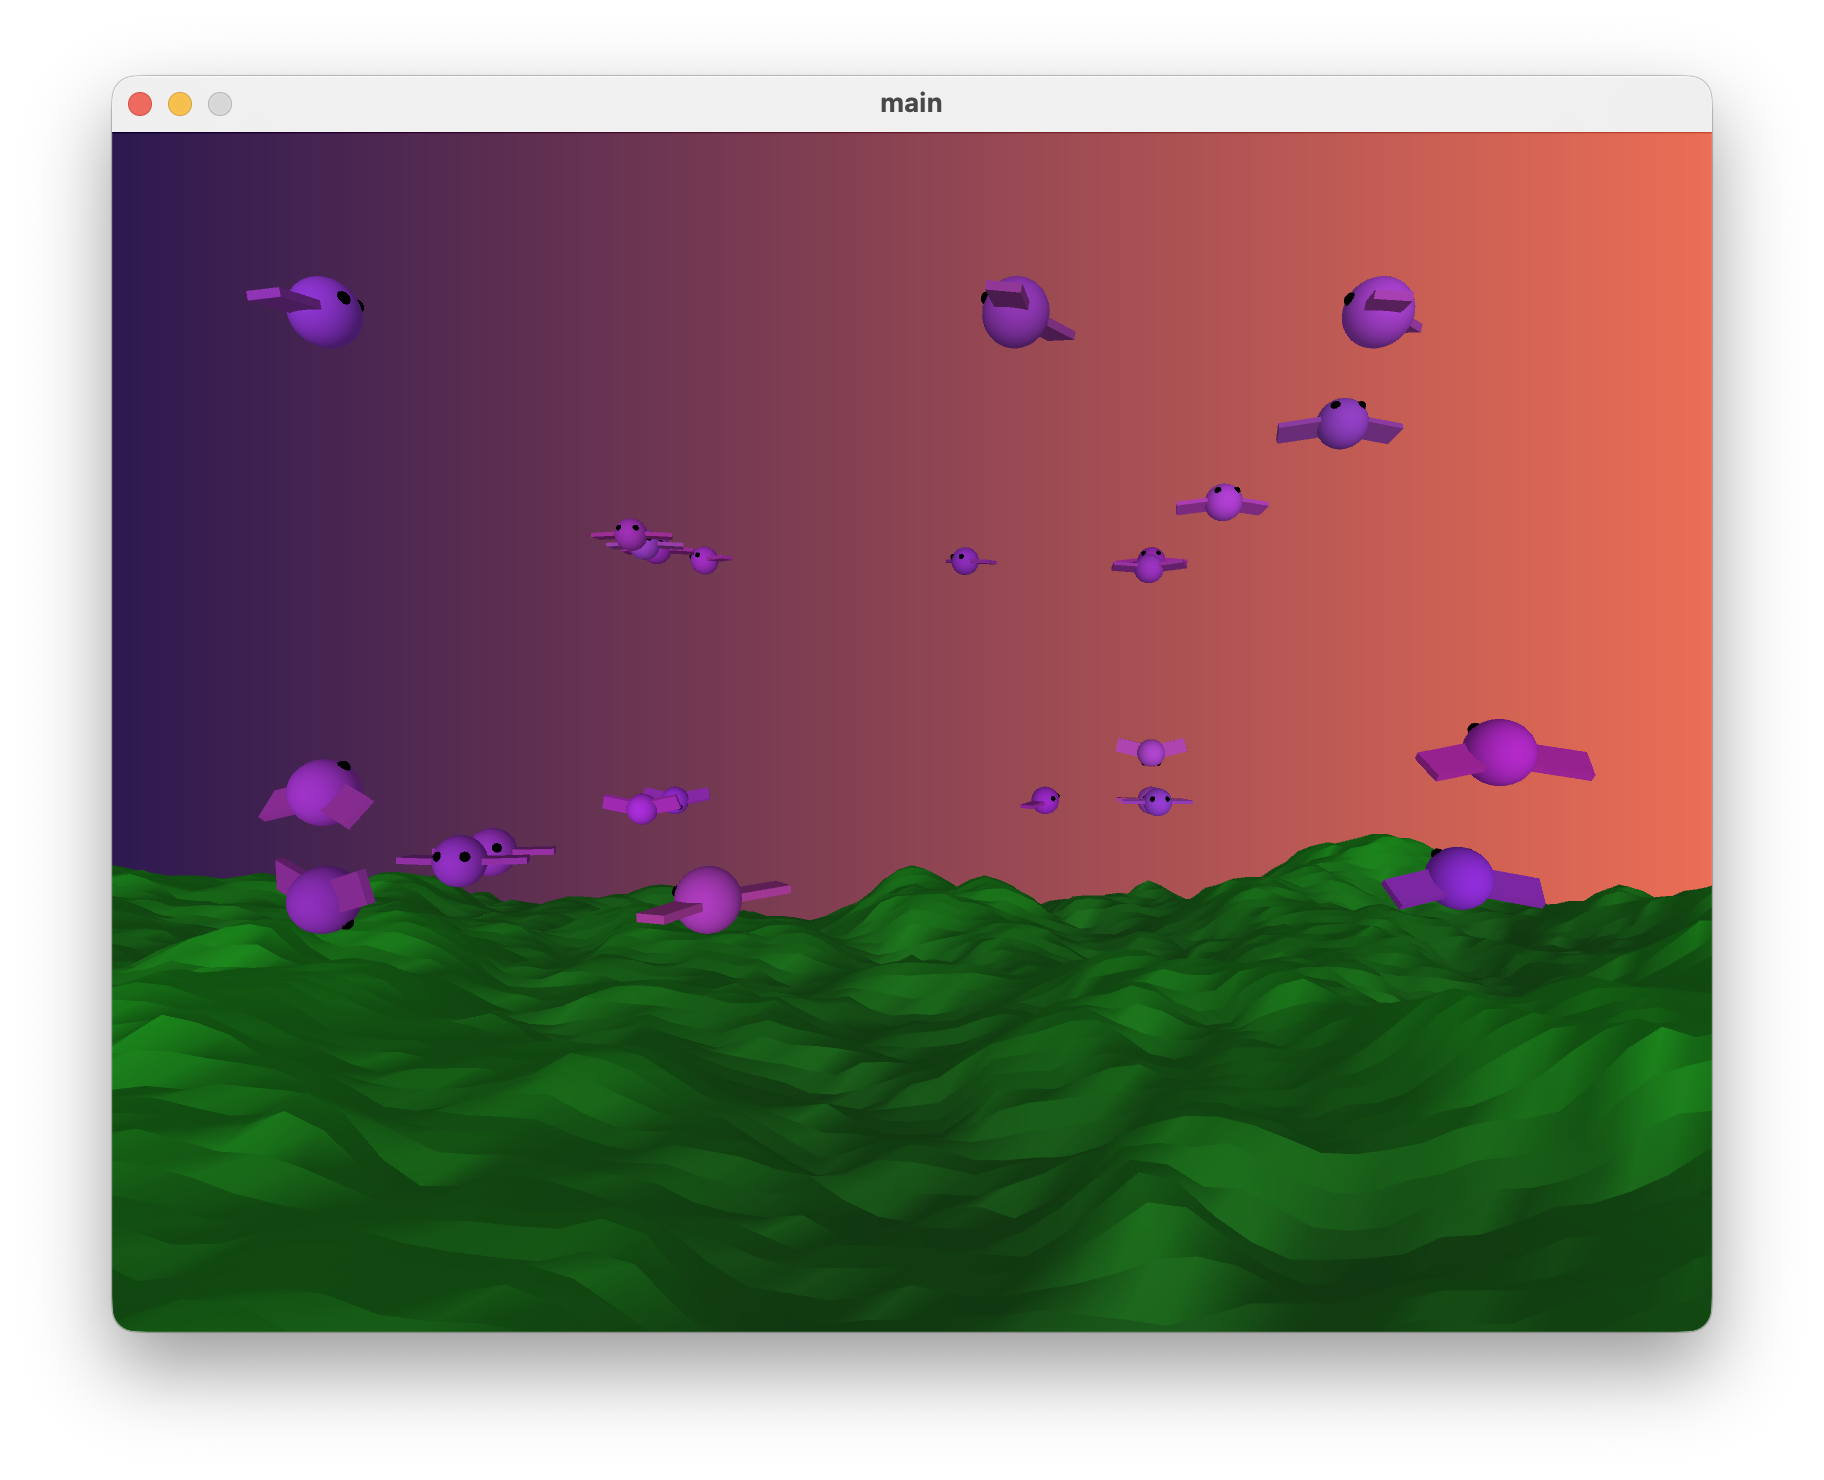
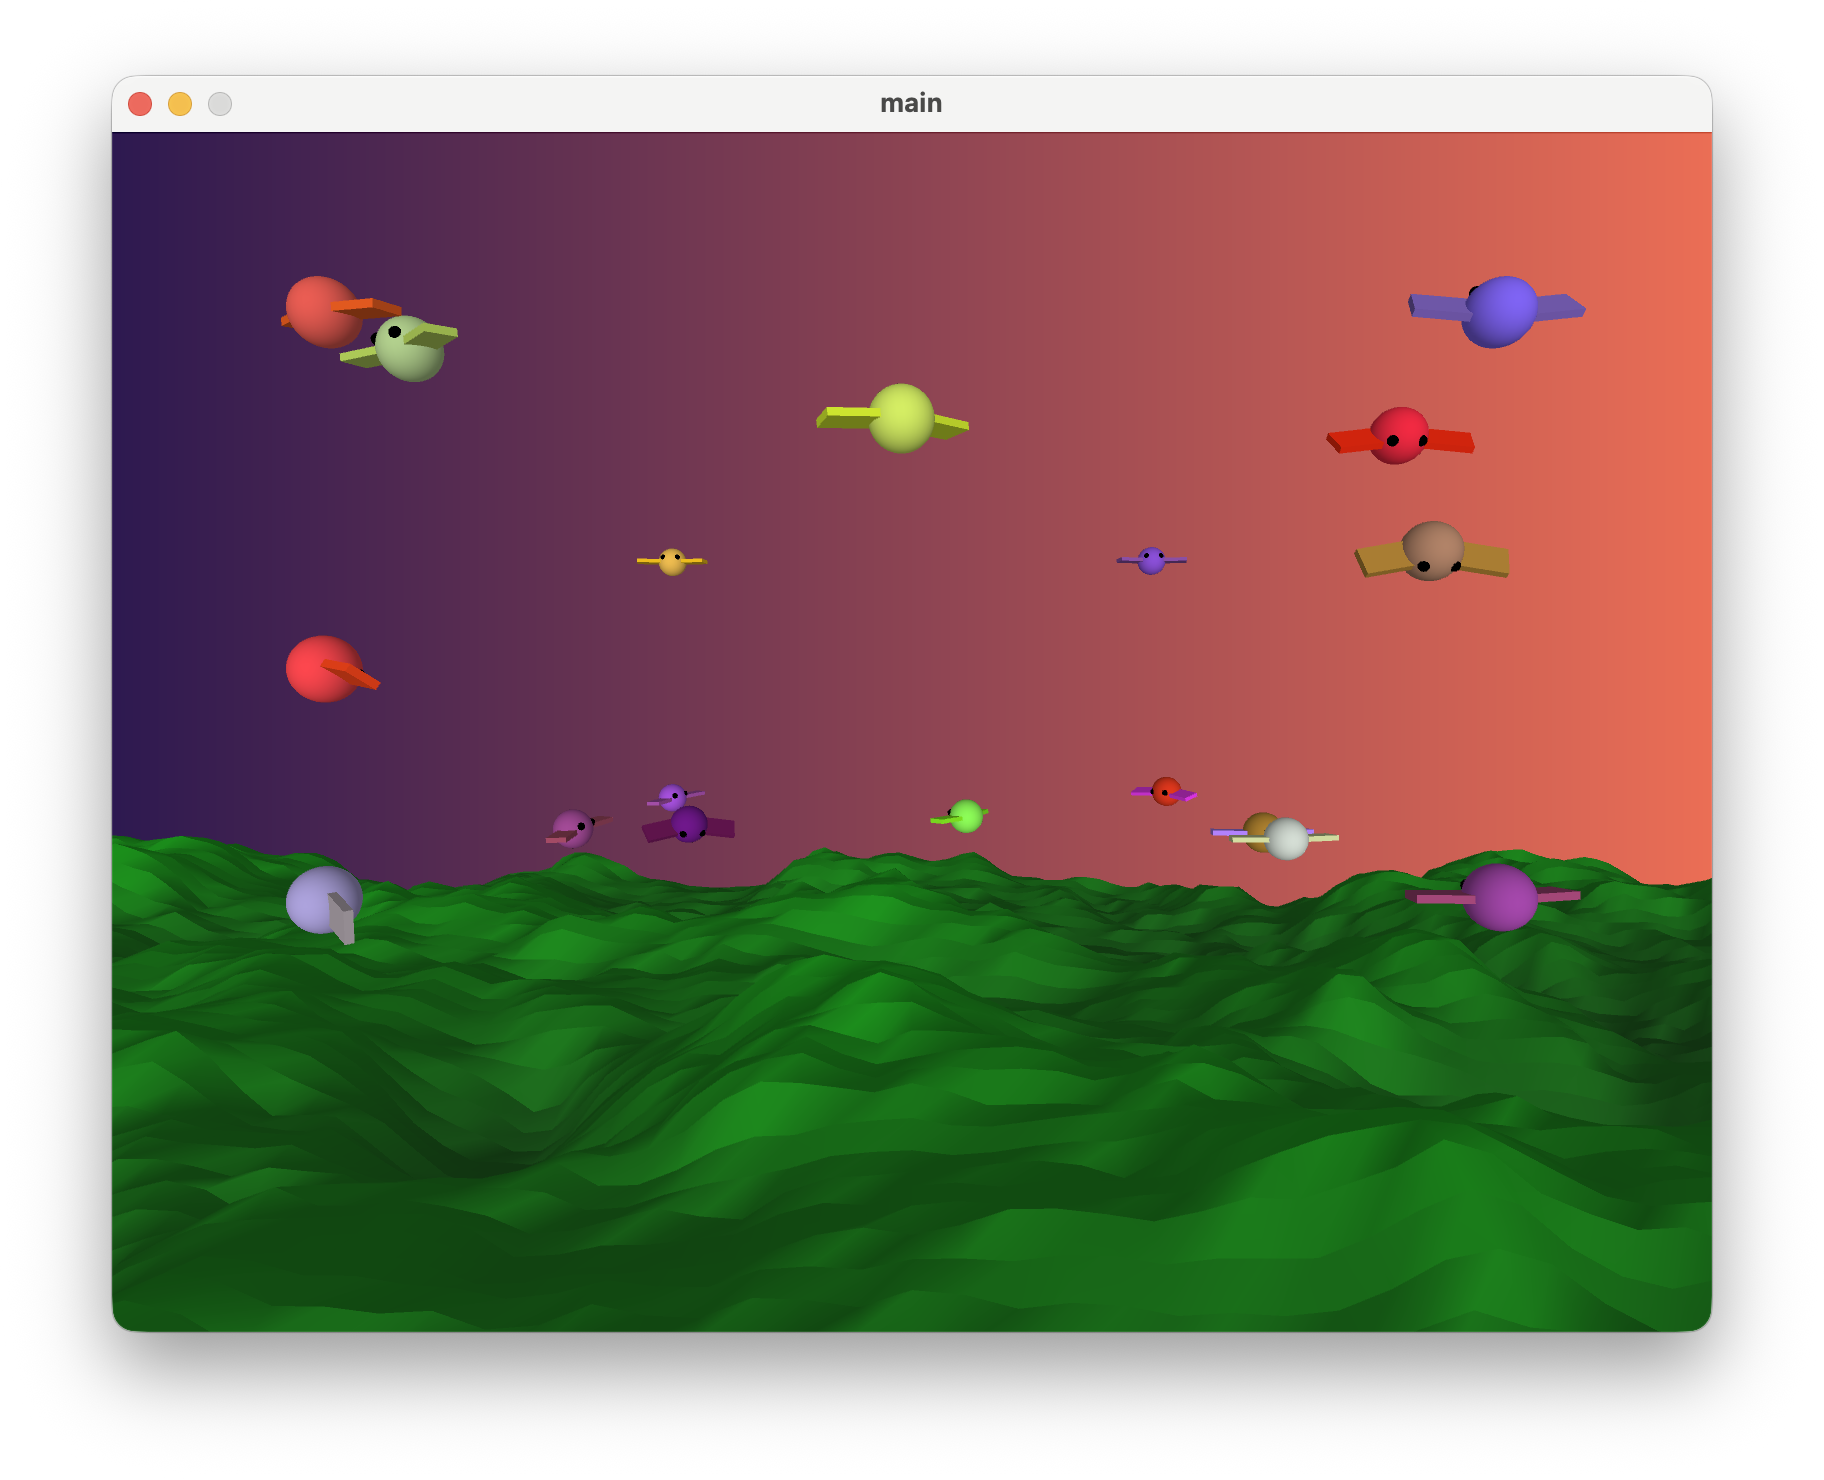
Add ability to change terrain height

diff --git a/README.md b/README.md
@@ -1,7 +1,8 @@
 # Algorithms-Final
 Submission for the course Algorithms for Creative Technology by Aaron.
 
-<img src="./images/curr.png" width="600"></img>
+<img src="./images/curr.png" width="400"></img>
+<img src="./images/menu.png" width="400"></img>
 
 ### Currently implemented features:
 - [x] 3D Flying Birds (Boids)
